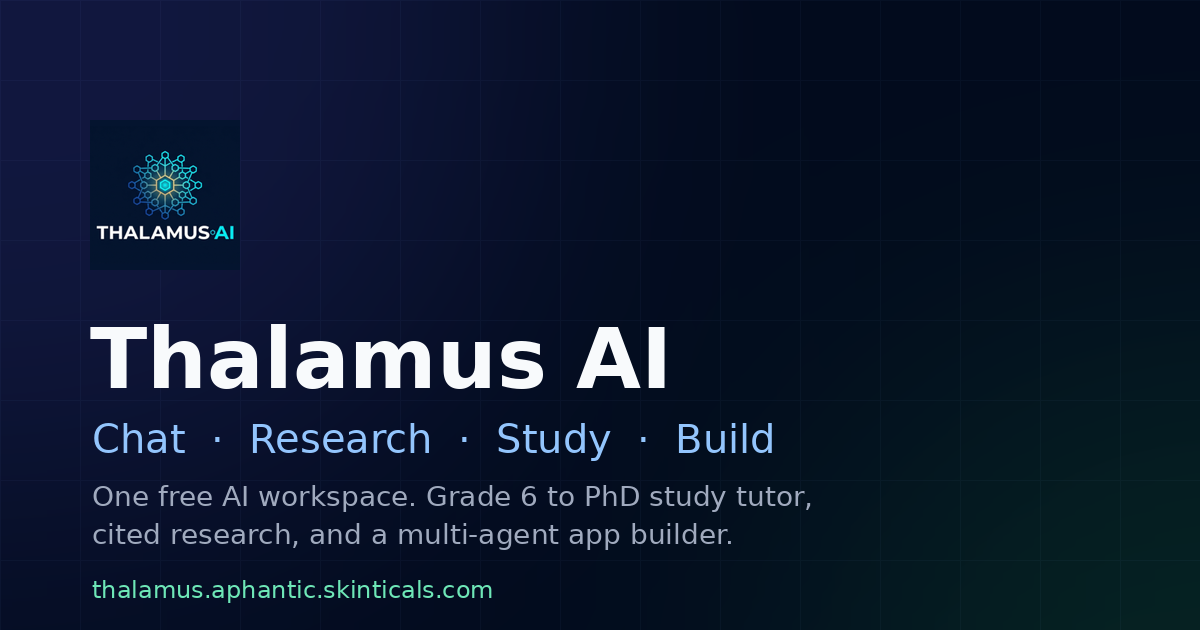
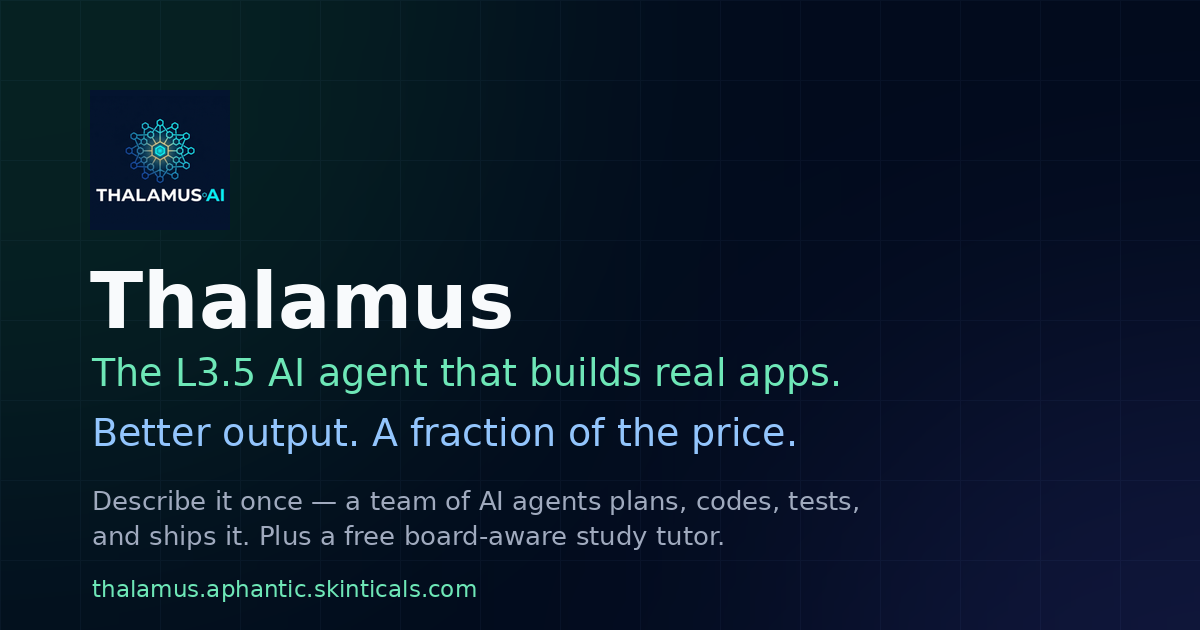
landing: lead with the coding agent, calm the 3D, fix contrast
Repositioned around what we actually are — an L3.5 coding agent, cheaper
and better than the $20–200/mo single-agent tools — not a study app.
Coding is the hero and the first section now; study drops to second. New
H1, mode grid leads with Build, pipeline section gets the price contrast
+ an L3.5 explainer, and the title/description/OG/noscript all lead with
coding while keeping the study keywords for the rankable long tail.

Also fixed the three complaints about the scene: particle count 4500→2400
and DPR cap 1.75→1.4 (the additive-blend fill rate was the lag), point
alpha 0.75→0.45 and a dark readability scrim so it stops washing out and
swallowing text, and it now only runs in dark mode — on light theme the
white particles were invisible-on-invisible. Dropping drei already trimmed
the three chunk ~180KB.

diff --git a/src/pages/Landing.tsx b/src/pages/Landing.tsx
@@ -53,6 +53,16 @@ const MODE_CARDS: Array<{
   examples: string[];
 }> = [
   {
+    id: "code",
+    label: "Build",
+    icon: Code2,
+    tone: "text-emerald-300 border-emerald-300/25 bg-emerald-300/8",
+    metric: "L3.5 agent",
+    headline: "Ship real apps from one prompt",
+    desc: "Describe what you want and a team of AI agents plans, writes, tests, and reviews real code — files, commands, and a GitHub push, not just a snippet.",
+    examples: ["Web apps", "APIs & tools", "Fix & ship code"],
+  },
+  {
     id: "chat",
     label: "Chat",
     icon: MessageSquare,
@@ -81,16 +91,6 @@ const MODE_CARDS: Array<{
     headline: "A patient tutor for every learner",
     desc: "Upload notes or ask a question and get explanations that are easy to follow and ready to revise.",
     examples: ["School lessons", "College topics", "Practice questions"],
-  },
-  {
-    id: "code",
-    label: "Build",
-    icon: Code2,
-    tone: "text-emerald-300 border-emerald-300/25 bg-emerald-300/8",
-    metric: "make things",
-    headline: "Bring apps and ideas to life",
-    desc: "Describe what you want to create, and Thalamus helps plan, build, check, and improve it.",
-    examples: ["Websites", "Apps", "Useful tools"],
   },
 ];
 
@@ -354,18 +354,18 @@ function Hero({ onLaunch }: { onLaunch: () => void }) {
             className="mb-8 inline-flex items-center gap-2 rounded-full border border-white/10 bg-white/[0.04] px-4 py-2 text-[11px] font-bold uppercase tracking-[0.18em] text-muted-foreground backdrop-blur-xl"
           >
             <span className="h-1.5 w-1.5 rounded-full bg-emerald-300" />
-            AI workspace · By Aphantic Corporations
+            L3.5 Agent · dynamic multi-agent pipeline · by Aphantic
           </motion.div>
 
           <motion.h1
             initial={{ opacity: 0, y: 24 }}
             animate={{ opacity: 1, y: 0 }}
             transition={{ duration: 0.65 }}
-            className="mx-auto max-w-5xl text-balance text-4xl font-semibold leading-[0.98] tracking-normal text-foreground sm:text-6xl lg:text-7xl"
+            className="mx-auto max-w-5xl text-balance text-4xl font-semibold leading-[0.98] tracking-normal text-foreground/90 sm:text-6xl lg:text-7xl"
           >
-            <span className="block">Free AI study app for CBSE, ICSE, JEE &amp; NEET</span>
-            <span className="block bg-[linear-gradient(110deg,#f8fafc_0%,#93c5fd_32%,#fcd34d_66%,#d9f99d_100%)] bg-clip-text text-transparent drop-shadow-[0_0_28px_rgba(147,197,253,0.18)]">
-              — plus an AI that builds real apps.
+            <span className="block">The L3.5 AI agent that builds real apps.</span>
+            <span className="block bg-[linear-gradient(110deg,#a7f3d0_0%,#6ee7b7_35%,#93c5fd_70%,#c4b5fd_100%)] bg-clip-text text-transparent">
+              Better output. A fraction of the price.
             </span>
           </motion.h1>
 
@@ -375,8 +375,9 @@ function Hero({ onLaunch }: { onLaunch: () => void }) {
             transition={{ delay: 0.12, duration: 0.55 }}
             className="mx-auto mt-6 max-w-3xl text-base leading-7 text-muted-foreground sm:text-lg"
           >
-            Instant homework help and doubt solving grounded in your own NCERT notes — the everything-app for
-            students and builders. Ask, learn, research, and build software from one place.
+            Describe what you want once. A dispatcher sends in a team of up to nine AI agents that plan, code,
+            test, attack, and review it — real files, real commands, pushed to GitHub. And when you're done
+            building, there's a free board-aware study tutor in the same app.
           </motion.p>
 
 
@@ -564,6 +565,12 @@ function PipelineSection() {
             agents it needs — up to nine of them — to research, plan, write, test, attack, and review real code.
             A typo fix gets two agents. A full app gets the whole crew. Files get written, commands get executed,
             and finished projects can push straight to GitHub.
+          </p>
+          <p className="mt-3 text-sm leading-6 text-muted-foreground">
+            The big AI coding tools charge $20–200 a month for a single agent. Thalamus runs the whole team on
+            free daily credits — you pay only if you want more. <span className="text-foreground/80">L3.5 means it
+            plans and executes multi-step builds end to end, verifies its own work through the Tester and Critic,
+            and leaves you the final say — autonomy where it helps, control where it matters.</span>
           </p>
         </div>
 
@@ -809,19 +816,22 @@ export default function Landing() {
         onFeedback={() => setSuggestionsOpen(true)}
         onToggleTheme={toggleTheme}
       />
-      {show3d && (
+      {show3d && theme === "dark" && (
         <div className="pointer-events-none fixed inset-0 z-0" aria-hidden>
           <Suspense fallback={null}>
             <NeuralScene progress={sceneProgress} />
           </Suspense>
+          {/* Readability scrim — dims the particle field under the content,
+              deepening toward the text-heavy lower sections. */}
+          <div className="absolute inset-0 bg-[linear-gradient(180deg,rgba(2,11,29,0.25)_0%,rgba(2,11,29,0.55)_35%,rgba(2,11,29,0.72)_100%)]" />
         </div>
       )}
 
       <div className="relative z-10">
         <Hero onLaunch={handleLaunch} />
         <ModeGrid onSelect={handleModeSelect} />
-        <StudySection />
         <PipelineSection />
+        <StudySection />
         <CapabilityBand />
         <FaqSection />
         <FinalCta onLaunch={handleLaunch} onSelect={handleModeSelect} />

diff --git a/index.html b/index.html
@@ -13,21 +13,21 @@
   <!-- Page titles/descriptions are refined per-route (React 19 head hoisting);
        these are the crawler-visible defaults for the landing page. -->
   <meta name="description"
-    content="Free AI study app for CBSE, ICSE, JEE & NEET — instant homework help and doubt solving grounded in your NCERT notes, plus an AI that builds real apps." />
+    content="Thalamus is an L3.5 AI coding agent: describe an app and a team of AI agents plans, writes, tests, and ships real code — better output, a fraction of the price. Plus a free AI study tutor for CBSE, ICSE, JEE & NEET." />
   <link rel="canonical" href="https://thalamus.aphantic.skinticals.com/" />
   <meta property="og:type" content="website" />
   <meta property="og:site_name" content="Thalamus" />
   <meta property="og:url" content="https://thalamus.aphantic.skinticals.com/" />
-  <meta property="og:title" content="Thalamus — Free AI Study App for CBSE, ICSE, JEE & NEET + AI App Builder" />
-  <meta property="og:description" content="Free AI study assistant for CBSE, ICSE, JEE & NEET: homework help, doubt solving, and board-aware answers — plus a multi-agent AI that builds real software." />
+  <meta property="og:title" content="Thalamus — L3.5 AI Coding Agent that Builds Real Apps for Less" />
+  <meta property="og:description" content="An L3.5 multi-agent AI that plans, writes, tests, and ships real software from one prompt — cheaper than the big coding tools. Plus a free board-aware study tutor." />
   <meta property="og:image" content="https://thalamus.aphantic.skinticals.com/og-banner.png" />
   <meta property="og:image:width" content="1200" />
   <meta property="og:image:height" content="630" />
-  <meta property="og:image:alt" content="Thalamus AI — study, research, chat, and build in one workspace" />
+  <meta property="og:image:alt" content="Thalamus — L3.5 AI coding agent that builds real apps" />
   <meta property="og:locale" content="en_IN" />
   <meta name="twitter:card" content="summary_large_image" />
-  <meta name="twitter:title" content="Thalamus — Free AI Study App for CBSE, ICSE, JEE & NEET + AI App Builder" />
-  <meta name="twitter:description" content="Free AI study assistant for CBSE, ICSE, JEE & NEET: homework help, doubt solving, and board-aware answers — plus a multi-agent AI that builds real software." />
+  <meta name="twitter:title" content="Thalamus — L3.5 AI Coding Agent that Builds Real Apps for Less" />
+  <meta name="twitter:description" content="An L3.5 multi-agent AI that plans, writes, tests, and ships real software from one prompt — cheaper than the big coding tools. Plus a free board-aware study tutor." />
   <meta name="twitter:image" content="https://thalamus.aphantic.skinticals.com/og-banner.png" />
   <script type="application/ld+json">
   {
@@ -112,7 +112,7 @@
   <noscript>
     <link href="https://fonts.googleapis.com/css2?family=Inter:wght@300;400;500;600;700;800;900&family=JetBrains+Mono:wght@300;400;500;600;700&display=swap" rel="stylesheet" />
   </noscript>
-  <title>Thalamus — Free AI Study App for CBSE, ICSE, JEE & NEET + AI App Builder</title>
+  <title>Thalamus — L3.5 AI Coding Agent that Builds Real Apps for Less</title>
 </head>
 
 <body>
@@ -121,12 +121,13 @@
        first-paint signal before hydration. The React app replaces #root. -->
   <noscript>
     <div style="max-width:720px;margin:80px auto;padding:0 24px;font-family:system-ui,sans-serif;color:#e5e7eb;background:#020b1d">
-      <h1>Thalamus — free AI study app for CBSE, ICSE, JEE &amp; NEET, plus an AI that builds apps</h1>
-      <p>Thalamus is an all-in-one AI workspace. Study mode is a board-aware tutor for grade 6 to PhD:
-        instant homework help and doubt solving grounded in your own NCERT notes and sample papers, with
-        mark-scheme answers for CBSE, ICSE, state boards, IB, Cambridge, JEE, NEET and more. Build mode runs
-        a team of AI agents that plan, write, test, and review real software. There's also streaming chat and
-        cited web research.</p>
+      <h1>Thalamus — an L3.5 AI coding agent that builds real apps for a fraction of the price</h1>
+      <p>Describe what you want to build and Thalamus runs a dynamic pipeline of up to nine AI agents that
+        plan, write, test, attack, and review real code — actual files and commands, pushed to GitHub. It's an
+        L3.5 agent: it executes multi-step builds end to end and verifies its own work, while you keep the final
+        say. The big AI coding tools charge $20–200 a month for one agent; Thalamus runs the whole team on free
+        daily credits. It also includes a free board-aware study tutor (CBSE, ICSE, JEE, NEET and more),
+        streaming chat, and cited web research.</p>
       <p><a href="/portal" style="color:#93c5fd">Open Thalamus</a> ·
         <a href="/api-keys" style="color:#93c5fd">Developer API</a> ·
         <a href="https://agentoverflow.aphantic.skinticals.com" style="color:#93c5fd">AgentOverflow</a></p>

diff --git a/src/components/landing/NeuralScene.tsx b/src/components/landing/NeuralScene.tsx
@@ -8,7 +8,7 @@ import { useMemo, useRef } from "react";
 import * as THREE from "three";
 import type { MotionValue } from "framer-motion";
 
-const PARTICLE_COUNT = 4500;
+const PARTICLE_COUNT = 2400;
 
 const VERT = /* glsl */ `
   attribute vec3 aScattered;
@@ -29,7 +29,7 @@ const VERT = /* glsl */ `
     vec4 mv = modelViewMatrix * vec4(pos, 1.0);
     vDepth = -mv.z;
     gl_Position = projectionMatrix * mv;
-    gl_PointSize = (1.8 + aSeed * 2.2) * (300.0 / -mv.z);
+    gl_PointSize = (1.5 + aSeed * 1.8) * (300.0 / -mv.z);
   }
 `;
 
@@ -53,7 +53,7 @@ const FRAG = /* glsl */ `
     color = mix(color, amber, step(0.965, vSeed) * 0.85); // rare warm sparks
 
     float fade = clamp(1.6 - vDepth * 0.12, 0.25, 1.0);
-    gl_FragColor = vec4(color, alpha * 0.75 * fade);
+    gl_FragColor = vec4(color, alpha * 0.45 * fade);
   }
 `;
 
@@ -151,7 +151,7 @@ export default function NeuralScene({ progress }: { progress: MotionValue<number
   return (
     <Canvas
       camera={{ position: [0, 0, 6.2], fov: 46 }}
-      dpr={[1, 1.75]}
+      dpr={[1, 1.4]}
       gl={{ antialias: false, powerPreference: "high-performance", alpha: true }}
       style={{ position: "absolute", inset: 0 }}
       aria-hidden